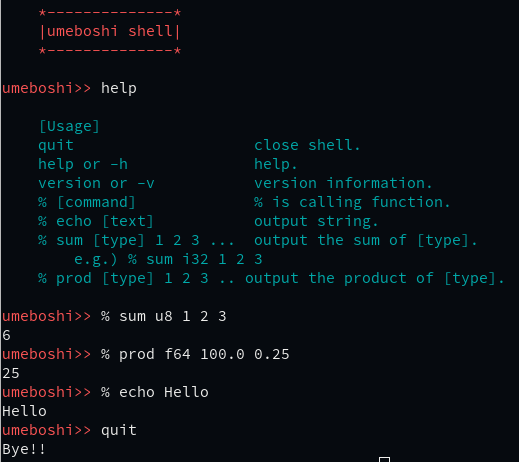
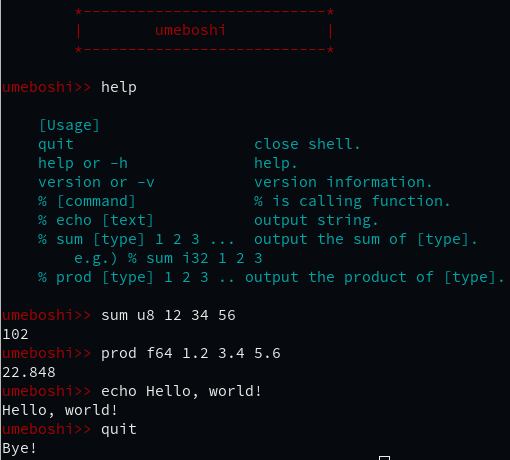
Modified main function.

diff --git a/src/main.rs b/src/main.rs
@@ -5,11 +5,11 @@
 //! [Usage]
 //!     ....
 //!     ....
-//! umeboshi>> % echo Hello world!
+//! umeboshi>> echo Hello world!
 //! Hello world!
-//! umeboshi>> % sum u8 12 34
+//! umeboshi>> sum u8 12 34
 //! 46
-//! umeboshi>> % prod f64 100.0 0.75
+//! umeboshi>> prod f64 100.0 0.75
 //! 75
 //! umeboshi>> quit
 //! Bye!!
@@ -18,7 +18,10 @@
 use std::io::Write;
 use std::io;
 use termion::{color, style};
+use std::thread;
+use std::sync::mpsc;
 mod calc;
+
 
 const TITLE: &str = "
 \t*---------------------------*
@@ -32,67 +35,68 @@ const HELP: &str = r#"
     quit                    close shell.
     help or -h              help.
     version or -v           version information.
-    % [command]             % is calling function.
-    % echo [text]           output string.
-    % sum [type] 1 2 3 ...  output the sum of [type].
-        e.g.) % sum i32 1 2 3
-    % prod [type] 1 2 3 .. output the product of [type].
+    echo [text]             output string.
+    sum [type] 1 2 3 ...    output the sum of [type].
+        e.g.) sum i32 1 2 3
+    prod [type] 1 2 3 ..    output the product of [type].
 "#;
 
-/// Main Loop.
 fn main() {
-    println!(
-        "{}{}{}",
-        color::Fg(color::Red), 
-        TITLE, 
-        style::Reset
-    );
+    println!("{}{}{}",
+             color::Fg(color::Red),
+             TITLE,
+             style::Reset
+             );
+
+    let (sender, receiver) = mpsc::channel();
+
     loop {
         let mut s = String::new();
-        print!(
-            "{}{}{}", 
-            color::Fg(color::Red),
-            PRIMARY_PROMPT, 
-            style::Reset, 
-        );
-        io::stdout().flush().expect("Couldn't flush stdout");
+        print!("{}{}{}",
+               color::Fg(color::Red),
+               PRIMARY_PROMPT,
+               style::Reset
+               );
+        io::stdout().flush().expect("Couldn't flush stdout.");
         io::stdin().read_line(&mut s).expect("Failed.");
 
-        let v: Vec<&str> = s.trim().split_whitespace().collect();
-        let (head, tail) = (&v[..1], &v[1..]);
-
-        match head[0] {
+        match &*s.trim() {
             "quit" => {
-                println!("Bye!!");
+                println!("Bye!");
                 break;
+            },
+            "help"|"-h" => {
+                println!("{}{}{}",
+                        color::Fg(color::Cyan),
+                        HELP,
+                        style::Reset);
+                continue;
             },
             "version"|"-v" => {
                 println!("{}", VERSION);
                 continue;
             },
-            "help"|"-h" => {
-                println!("{}{}{}", color::Fg(color::Cyan), HELP, style::Reset);
-                continue;
-            },
-            "%" => {
-                println!("{}", bind_func(tail));
-                continue;
-            },
             _ => {
-                println!(
-                    "\tPlease input{} {} help{}", 
-                    color::Fg(color::LightYellow), 
-                    PRIMARY_PROMPT, 
-                    style::Reset
-                );
-                continue;
+                let sender = sender.clone();
+                thread::spawn(move || {
+                    sender.send(s).unwrap();
+                });
             }
         }
+        let receive = receiver.recv().unwrap();
+        println!("{}", bind_func(receive));
+        continue;
     }
 }
 
-/// Distinction of some functions.
-fn bind_func<'a>(v: &[&'a str]) -> String {
+/// Bind some functions.
+fn bind_func(s: String) -> String {
+    let mut v: Vec<&str> = s.trim()
+        .split_whitespace()
+        .collect();
+
+    v.shrink_to_fit();
+
     let (cmd, params) = (&v[..1], &v[1..]);
     match cmd[0] {
         "echo" => format!("{}", params.join(&" ")),

diff --git a/src/calc.rs b/src/calc.rs
@@ -2,6 +2,7 @@
 // This is a library for handling chars.
 // `is_integer` validate whether it is integer.
 // `is_float` validate whether it is float.
+
 use onigiri::validator::{is_integer, is_float};
 
 const NOT_NUMBER: &str = "Contain not-number.";

diff --git a/README.md b/README.md
@@ -6,9 +6,6 @@ Umeboshi is japanese apricot pickles. I like :)
 
 This application is my interactive shell.
 
-However, this application has just started to develop, 
-and does not have any particular functions.
-
 Now, umeboshi has 6 commands.
 
 - echo
